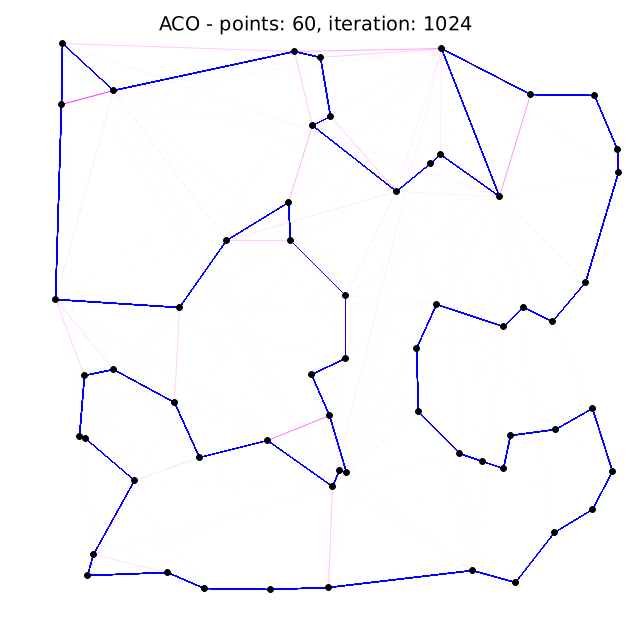
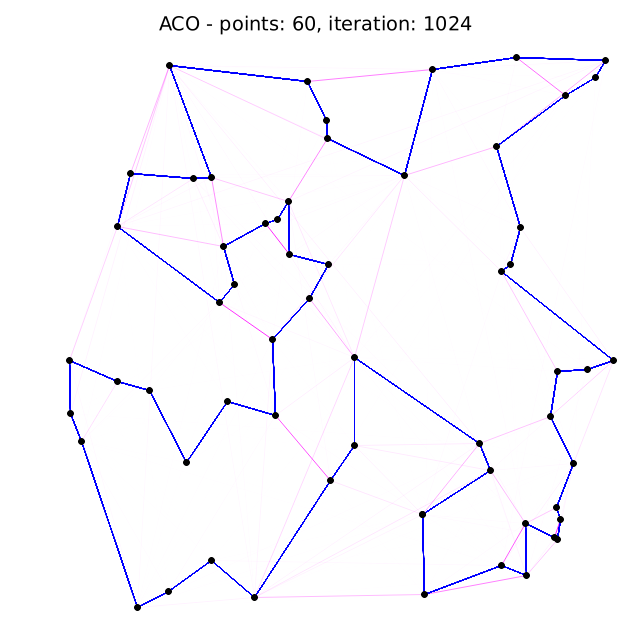
Use random walk approach as comparison to ACO approximation
Also plot an example 'bad' solution, using worst from 10,080
random walks.

diff --git a/src/random.rs b/src/random.rs
@@ -1,0 +1,135 @@
+#[path = "utils.rs"]
+mod utils;
+
+use rand::prelude::*;
+
+#[derive(Debug)] // This annotation allows debugging print of struct
+#[derive(Clone)]
+struct Ant {
+    route: Vec<usize>,
+    visited: Vec<bool>,
+    not_visited: Vec<usize>,
+}
+
+impl Ant {
+    fn visit(&mut self, city: usize) {
+        self.route.push(city);
+        self.visited[city] = true;
+        self.not_visited.retain(|x| *x != city);
+    }
+
+    fn route_length(&self, distance_matrix: Vec<Vec<f32>>) -> f32 {
+        let mut distance: f32 = distance_matrix[self.route[self.route.len() - 1]][self.route[0]];
+
+        for i in 0..self.route.len() - 1 {
+            distance += distance_matrix[self.route[i]][self.route[i + 1]];
+        }
+
+        distance
+    }
+
+    fn reset(&mut self, n: usize, indices: Vec<usize>) {
+        self.route = vec![];
+        self.visited = vec![false; n];
+        self.not_visited = indices;
+    }
+}
+
+pub fn random_walks(coords: Vec<(f32, f32)>) -> Vec<usize> {
+    let n: usize = coords.len(); // Number of points (cities)
+    let mut ants: Vec<Ant> = vec![];
+    let iterations: usize = 210; // Number of simulation iterations to run
+    let ant_factor: f32 = 0.8; // How many ants we'll use per city
+
+    // Create matrix of distances between cities.
+    let distance_matrix: Vec<Vec<f32>> = utils::distance_matrix(coords.clone(), n);
+
+    // Set number of ants. Always rounds down.
+    let n_ants: usize = (n as f32 * ant_factor) as usize;
+
+    let mut rng = rand::thread_rng();
+    let indices: Vec<usize> = create_indices_vec(n);
+
+    // Add ants, each in default state, to 'ants' vec.
+    for i in 0..n_ants {
+        ants.push(Ant {
+            route: vec![],
+            visited: vec![false; n],
+            not_visited: indices.clone(),
+        });
+
+        // Set each ant to start at a random city.
+        ants[i].visit(rng.gen_range(0..n));
+    }
+
+    // let mut best_route: Vec<usize> = vec![];
+    let mut best_route_length: f32 = 0.0;
+
+    let mut worst_route: Vec<usize> = vec![];
+    let mut worst_route_length: f32 = 0.0;
+
+    let mut all_lengths: Vec<f32> = vec![];
+
+    for i in 0..iterations {
+        // n - 1 loops, as we have already selected start city, and will end at start
+        for j in 0..n - 1 {
+            for k in 0..ants.len() {
+                let not_visited = ants[k].not_visited.clone();
+                ants[k].visit(not_visited[rng.gen_range(0..n - 1 - j)]);
+            }
+        }
+
+        for j in 0..ants.len() {
+            let length = ants[j].route_length(distance_matrix.clone());
+            let route = ants[j].route.clone();
+
+            if j == 0 {
+                best_route_length = length;
+                worst_route_length = length;
+                // best_route = route.clone();
+                worst_route = route.clone();
+            }
+
+            if length < best_route_length {
+                best_route_length = length;
+                // best_route = route.clone();
+            } else if length > worst_route_length {
+                worst_route_length = length;
+                worst_route = route.clone();
+            }
+
+            all_lengths.push(length);
+        }
+
+        // Reset ants if n iterations not yet done:
+        if i < iterations - 1 {
+            for j in 0..n_ants {
+                ants[j].reset(n, indices.clone());
+
+                ants[j].visit(rng.gen_range(0..n));
+            }
+        }
+    }
+
+    let sum: f32 = all_lengths.iter().sum();
+    let average_length: f32 = sum / all_lengths.len() as f32;
+
+    println!("------- Random walks ---------");
+    println!("n of random routes: {}", n_ants * iterations);
+    println!("best route length: {}", best_route_length);
+    println!("worst route length: {}", worst_route_length);
+    println!("average route length: {}", average_length);
+
+    worst_route
+}
+
+// Return vec indices, starting at 0, and ending at n - 1.
+fn create_indices_vec(n: usize) -> Vec<usize> {
+    let mut indices: Vec<usize> = vec![];
+
+    for i in 0..n {
+        indices.push(i);
+    }
+
+    indices
+}

diff --git a/src/main.rs b/src/main.rs
@@ -1,11 +1,15 @@
 mod ants;
+mod apng;
 mod brute_force;
 mod plot;
 mod plot_trails;
-mod apng;
+mod random;
+mod utils;
 
 use ants::ant_force;
 use rand::prelude::*;
+
+use crate::random::random_walks;
 
 fn main() {
     // Define coords to use for line series & points
@@ -34,7 +38,17 @@ fn main() {
     // // Create chart of brute-force shortest path
     // plot::plot(best_path_coords, "Brute-force solution", "brute-force-10.png").unwrap();
 
-    let (best_route, best_route_length, mut trails_record): (Vec<usize>, f32, Vec<(Vec<Vec<f32>>, usize)>) = ant_force(coords.clone());
+    let worst_route: Vec<usize> = random_walks(coords.clone());
+
+    let mut worst_route_coords: Vec<(f32, f32)> = reorder_coords(coords.clone(), worst_route.clone());
+    worst_route_coords.push(coords[worst_route[0]]);
+    plot::plot(worst_route_coords, "Worst random walk of 10,080", "random-60.png").unwrap();
+
+    let (best_route, best_route_length, mut trails_record): (
+        Vec<usize>,
+        f32,
+        Vec<(Vec<Vec<f32>>, usize)>,
+    ) = ant_force(coords.clone());
 
     println!("------------------ ACO -------------------");
     println!("Best route: {:?}", best_route);
@@ -96,17 +110,32 @@ fn normalize_trails_record(mut record: Vec<(Vec<Vec<f32>>, usize)>) -> Vec<(Vec<
     record
 }
 
-fn plot_trails_record(coords: Vec<(f32, f32)>, record: Vec<(Vec<Vec<f32>>, usize)>, best_route: Vec<usize>) {
+fn plot_trails_record(
+    coords: Vec<(f32, f32)>,
+    record: Vec<(Vec<Vec<f32>>, usize)>,
+    best_route: Vec<usize>,
+) {
     for i in 0..record.len() {
         let (matrix, iter) = record[i].clone();
         let file_path: &str = &(format!("images/series_2/ants_{}_{}.png", coords.len(), i));
         let title: &str = &(format!("ACO - points: {}, iteration: {}", coords.len(), iter));
 
         if i < record.len() - 1 {
-            plot_trails::plot_trails(coords.clone(), title, file_path, matrix.clone(), vec![]).unwrap();
+            plot_trails::plot_trails(coords.clone(), title, file_path, matrix.clone(), vec![])
+                .unwrap();
         } else {
-            plot_trails::plot_trails(coords.clone(), title, file_path, matrix, best_route.clone()).unwrap();
+            plot_trails::plot_trails(coords.clone(), title, file_path, matrix, best_route.clone())
+                .unwrap();
         }
     }
+}
 
+pub fn reorder_coords(coords: Vec<(f32, f32)>, best_path: Vec<usize>) -> Vec<(f32, f32)> {
+    let mut best_path_coords: Vec<(f32, f32)> = vec![];
+
+    for e in best_path {
+        best_path_coords.push(coords[e]);
+    }
+
+    best_path_coords
 }

diff --git a/src/ants.rs b/src/ants.rs
@@ -211,9 +211,8 @@ fn move_ants(
     let mut rng = rand::thread_rng();
     let mut probabilities: Vec<f32> = vec![0.0; n];
 
+    // n - 1 loops, as we have already selected start city, and will end at start
     for i in 0..n - 1 {
-        // n - 1 loops, as we have already selected start city, and will end at start
-
         for j in 0..n_ants {
             // Select city to visit next
 

diff --git a/src/apng.rs b/src/apng.rs
@@ -34,7 +34,9 @@ pub fn create_apng(n: usize) {
     for image in png_images.iter() {
         i += 1;
         let mut t = 1;
-        if i == 10 { t = 5; }
+        if i == 10 {
+            t = 5;
+        }
 
         let frame = Frame {
             delay_num: Some(t),
